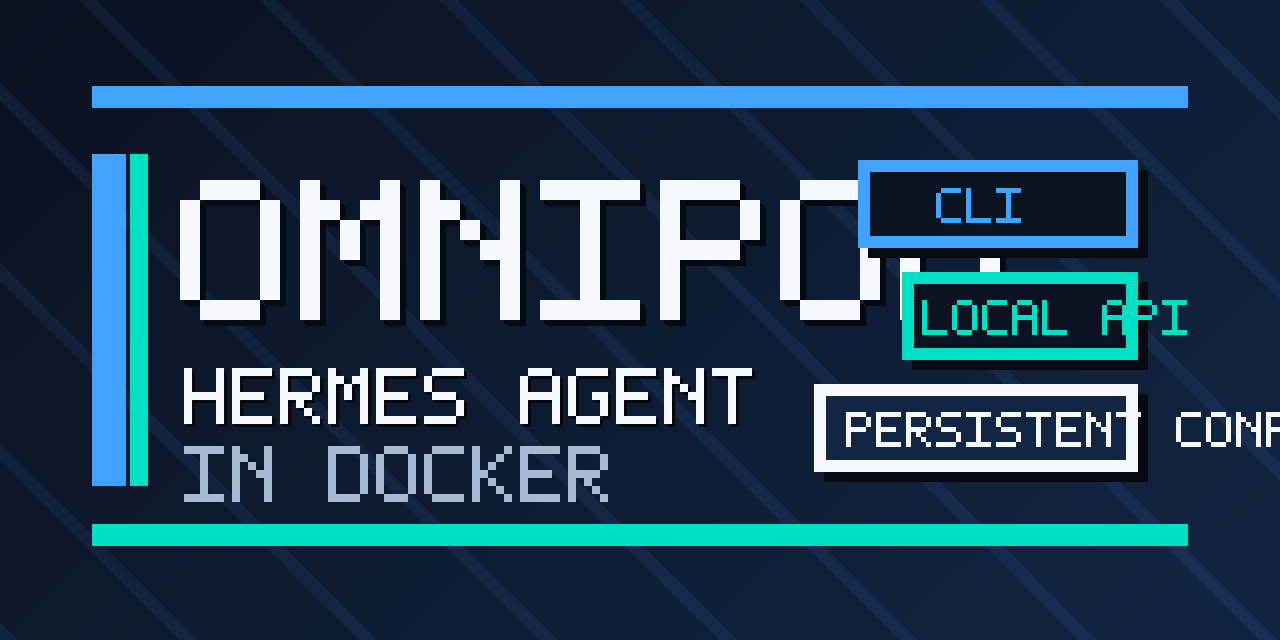
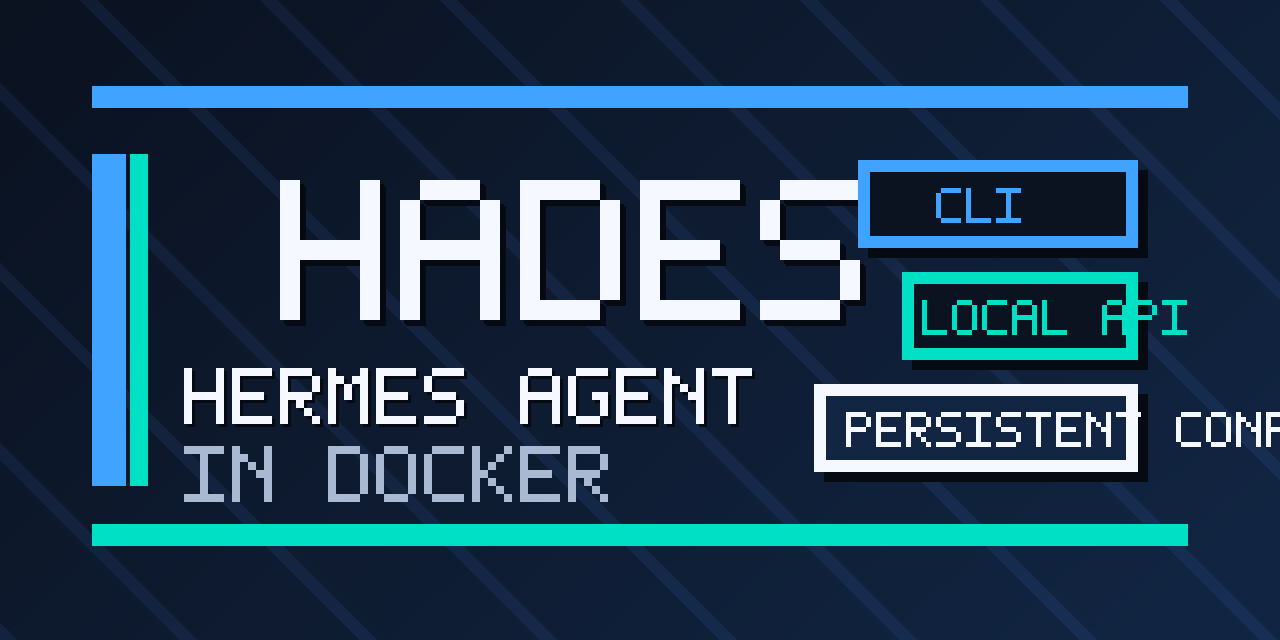
release: v1.2.0 — HADES branding complete, social preview updated, docs polished

Changed region(s): [[0.125, 0.2812, 0.7188, 0.5312], [0.75, 0.4062, 0.7812, 0.4375]]

diff --git a/assets/generate_social_preview.py b/assets/generate_social_preview.py
@@ -7,13 +7,13 @@ out.mkdir(parents=True, exist_ok=True)
 
 W, H = 1280, 640
 Color = Tuple[int, int, int]
-bg1: Color = (11, 18, 32)
-bg2: Color = (18, 38, 68)
-accent: Color = (64, 163, 255)
-accent2: Color = (0, 224, 196)
-white: Color = (245, 248, 255)
-muted: Color = (170, 185, 210)
-shadow: Color = (6, 10, 18)
+bg1:    Color = (11,  18,  32)
+bg2:    Color = (18,  38,  68)
+accent: Color = (64,  163, 255)
+accent2:Color = (0,   224, 196)
+white:  Color = (245, 248, 255)
+muted:  Color = (170, 185, 210)
+shadow: Color = (6,   10,  18)
 
 img: List[List[Color]] = [[bg1 for _ in range(W)] for _ in range(H)]
 
@@ -41,45 +41,40 @@ for band in range(-H, W, 180):
                 img[y][x] = (min(255, r + 6), min(255, g + 10), min(255, b + 18))
 
 FONT = {
-    'A': ['01110', '10001', '10001', '11111', '10001', '10001', '10001'],
-    'C': ['01111', '10000', '10000', '10000', '10000', '10000', '01111'],
-    'D': ['11110', '10001', '10001', '10001', '10001', '10001', '11110'],
-    'E': ['11111', '10000', '10000', '11110', '10000', '10000', '11111'],
-    'F': ['11111', '10000', '10000', '11110', '10000', '10000', '10000'],
-    'G': ['01111', '10000', '10000', '10011', '10001', '10001', '01110'],
-    'H': ['10001', '10001', '10001', '11111', '10001', '10001', '10001'],
-    'I': ['11111', '00100', '00100', '00100', '00100', '00100', '11111'],
-    'K': ['10001', '10010', '10100', '11000', '10100', '10010', '10001'],
-    'L': ['10000', '10000', '10000', '10000', '10000', '10000', '11111'],
-    'M': ['10001', '11011', '10101', '10101', '10001', '10001', '10001'],
-    'N': ['10001', '11001', '10101', '10011', '10001', '10001', '10001'],
-    'O': ['01110', '10001', '10001', '10001', '10001', '10001', '01110'],
-    'P': ['11110', '10001', '10001', '11110', '10000', '10000', '10000'],
-    'R': ['11110', '10001', '10001', '11110', '10100', '10010', '10001'],
-    'S': ['01111', '10000', '10000', '01110', '00001', '00001', '11110'],
-    'T': ['11111', '00100', '00100', '00100', '00100', '00100', '00100'],
-    'V': ['10001', '10001', '10001', '10001', '10001', '01010', '00100'],
-    'Y': ['10001', '10001', '01010', '00100', '00100', '00100', '00100'],
-    ':': ['00000', '00100', '00100', '00000', '00100', '00100', '00000'],
-    ' ': ['00000', '00000', '00000', '00000', '00000', '00000', '00000'],
+    'A': ['01110','10001','10001','11111','10001','10001','10001'],
+    'C': ['01111','10000','10000','10000','10000','10000','01111'],
+    'D': ['11110','10001','10001','10001','10001','10001','11110'],
+    'E': ['11111','10000','10000','11110','10000','10000','11111'],
+    'F': ['11111','10000','10000','11110','10000','10000','10000'],
+    'G': ['01111','10000','10000','10011','10001','10001','01110'],
+    'H': ['10001','10001','10001','11111','10001','10001','10001'],
+    'I': ['11111','00100','00100','00100','00100','00100','11111'],
+    'K': ['10001','10010','10100','11000','10100','10010','10001'],
+    'L': ['10000','10000','10000','10000','10000','10000','11111'],
+    'M': ['10001','11011','10101','10101','10001','10001','10001'],
+    'N': ['10001','11001','10101','10011','10001','10001','10001'],
+    'O': ['01110','10001','10001','10001','10001','10001','01110'],
+    'P': ['11110','10001','10001','11110','10000','10000','10000'],
+    'R': ['11110','10001','10001','11110','10100','10010','10001'],
+    'S': ['01111','10000','10000','01110','00001','00001','11110'],
+    'T': ['11111','00100','00100','00100','00100','00100','00100'],
+    'V': ['10001','10001','10001','10001','10001','01010','00100'],
+    'Y': ['10001','10001','01010','00100','00100','00100','00100'],
+    ':': ['00000','00100','00100','00000','00100','00100','00000'],
+    ' ': ['00000','00000','00000','00000','00000','00000','00000'],
 }
 
 def draw_rect(x, y, w, h, color):
-    x = max(0, x)
-    y = max(0, y)
-    w = min(w, W - x)
-    h = min(h, H - y)
-    if w <= 0 or h <= 0:
-        return
+    x = max(0, x); y = max(0, y)
+    w = min(w, W - x); h = min(h, H - y)
+    if w <= 0 or h <= 0: return
     for yy in range(y, y + h):
         row = img[yy]
         for xx in range(x, x + w):
             row[xx] = color
 
-for y in range(86, 108):
-    draw_rect(92, y, 1096, 1, accent)
-for y in range(524, 546):
-    draw_rect(92, y, 1096, 1, accent2)
+for y in range(86, 108):  draw_rect(92, y, 1096, 1, accent)
+for y in range(524, 546): draw_rect(92, y, 1096, 1, accent2)
 draw_rect(92, 154, 34, 332, accent)
 draw_rect(130, 154, 18, 332, accent2)
 
@@ -98,10 +93,10 @@ def draw_text(text, x, y, scale, color, spacing=1):
     return cx
 
 scale_title = 20
-x_title, y_title = 180, 180
+x_title, y_title = 280, 180
 for ox, oy in [(6, 6), (4, 4)]:
-    draw_text('OMNIPOD', x_title + ox, y_title + oy, scale_title, shadow, spacing=1)
-draw_text('OMNIPOD', x_title, y_title, scale_title, white, spacing=1)
+    draw_text('HADES', x_title + ox, y_title + oy, scale_title, shadow, spacing=1)
+draw_text('HADES', x_title, y_title, scale_title, white, spacing=1)
 
 scale_sub = 8
 for ox, oy in [(3, 3)]:
@@ -120,9 +115,9 @@ for x, y, w, h, c in boxes:
     draw_rect(x + 12, y + 12, w - 24, h - 24, bg1 if c != white else bg2)
 
 small = 5
-draw_text('CLI', 936, 188, small, accent, spacing=1)
-draw_text('LOCAL API', 922, 300, small, accent2, spacing=1)
-draw_text('PERSISTENT CONFIG', 846, 412, small, white, spacing=1)
+draw_text('CLI',              936, 188, small, accent,  spacing=1)
+draw_text('LOCAL API',        922, 300, small, accent2, spacing=1)
+draw_text('PERSISTENT CONFIG',846, 412, small, white,   spacing=1)
 
 raw = bytearray()
 for row in img:
@@ -139,7 +134,7 @@ png += chunk(b'IDAT', zlib.compress(bytes(raw), 9))
 png += chunk(b'IEND', b'')
 (out / 'social-preview.png').write_bytes(png)
 
-svg = '''<svg xmlns="http://www.w3.org/2000/svg" width="1280" height="640" viewBox="0 0 1280 640" role="img" aria-label="Omnipod social preview">
+svg = '''<svg xmlns="http://www.w3.org/2000/svg" width="1280" height="640" viewBox="0 0 1280 640" role="img" aria-label="HADES — Hermes Agent Docker Environment Script">
   <defs>
     <linearGradient id="bg" x1="0" y1="0" x2="1" y2="1">
       <stop offset="0%" stop-color="#0b1220"/>
@@ -151,7 +146,7 @@ svg = '''<svg xmlns="http://www.w3.org/2000/svg" width="1280" height="640" viewB
   <rect x="92" y="524" width="1096" height="22" rx="11" fill="#00e0c4"/>
   <rect x="92" y="154" width="34" height="332" rx="10" fill="#40a3ff"/>
   <rect x="130" y="154" width="18" height="332" rx="9" fill="#00e0c4"/>
-  <text x="180" y="290" fill="#f5f8ff" font-size="128" font-weight="800" font-family="Inter, Segoe UI, Arial, sans-serif" letter-spacing="4">OMNIPOD</text>
+  <text x="280" y="290" fill="#f5f8ff" font-size="128" font-weight="800" font-family="Inter, Segoe UI, Arial, sans-serif" letter-spacing="8">HADES</text>
   <text x="184" y="390" fill="#f5f8ff" font-size="44" font-weight="700" font-family="Inter, Segoe UI, Arial, sans-serif">Hermes Agent</text>
   <text x="184" y="450" fill="#aab9d2" font-size="40" font-weight="500" font-family="Inter, Segoe UI, Arial, sans-serif">in Docker</text>
   <g>
@@ -172,5 +167,15 @@ svg = '''<svg xmlns="http://www.w3.org/2000/svg" width="1280" height="640" viewB
 </svg>
 '''
 (out / 'social-preview.svg').write_text(svg)
-(out / 'README.md').write_text('# Social preview assets\n\nPrimary file for GitHub social preview:\n\n- `social-preview.png`\n\nSuggested upload path in GitHub UI:\n\n1. Open repository settings\n2. Go to **General**\n3. Find **Social preview**\n4. Upload `assets/social-preview.png`\n\nThe matching SVG source is included as `social-preview.svg` for future edits.\n')
-print('generated assets:', sorted(p.name for p in out.iterdir()))
+(out / 'README.md').write_text(
+'# Social preview assets\n\n'
+'Primary file for GitHub social preview:\n\n'
+'- `social-preview.png`\n\n'
+'Suggested upload path in GitHub UI:\n\n'
+'1. Open repository settings\n'
+'2. Go to **General**\n'
+'3. Find **Social preview**\n'
+'4. Upload `assets/social-preview.png`\n\n'
+'The matching SVG source is `social-preview.svg` for future edits.\n'
+)
+print('generated:', sorted(p.name for p in out.iterdir()))

diff --git a/README.md b/README.md
@@ -105,17 +105,17 @@ bash install.sh --provider openrouter --model deepseek/deepseek-v4-flash:free --
 ## Architecture
 
 ```text
- HOST                                   CONTAINER
-┌───────────────────────┐     ┌──────────────────────────┐
-│ ~/.hades/           │     │ hades                   │
-│   .env                │     │   hermes gateway run      │
-│   docker-compose.yml  │     │   API: 127.0.0.1:8642     │
-│   workspace/  ◄───────────────► /workspace              │
-│                       │     │                            │
-└───────────────────────┘     │  /root/.hermes ◄─────────┼── volume
-                               │  (sessions, memory,      │
-                               │   skills, config)         │
-                               └──────────────────────────┘
+ HOST                                    CONTAINER
+┌────────────────────────┐     ┌─────────────────────────────┐
+│ ~/.hades/              │     │ hades                       │
+│   .env                 │     │   hermes gateway run        │
+│   docker-compose.yml   │     │   API: 127.0.0.1:8642       │
+│   workspace/  ◄────────────────► /workspace               │
+│                        │     │                              │
+└────────────────────────┘     │  /root/.hermes ◄────────────┼── volume
+                                │  (sessions, memory,         │
+                                │   skills, config)           │
+                                └─────────────────────────────┘
 ```
 
 Workspace is bind-mounted. Hermes state lives in a named Docker volume — it survives rebuilds and restarts.

diff --git a/CHANGELOG.md b/CHANGELOG.md
@@ -2,7 +2,7 @@
 
 All notable changes to this project will be documented in this file.
 
-## [1.2.0] - Unreleased
+## [1.2.0] - 2026-05-28
 
 - Renamed project from Omnipod to **HADES** (Hermes Agent Docker Environment Script). Install directory is now `~/.hades/`, control command is now `hades`.
 - Modernized release pipeline to use native GitHub CLI (`gh release`) instead of deprecated Node actions.

diff --git a/assets/README.md b/assets/README.md
@@ -11,4 +11,4 @@ Suggested upload path in GitHub UI:
 3. Find **Social preview**
 4. Upload `assets/social-preview.png`
 
-The matching SVG source is included as `social-preview.svg` for future edits.
+The matching SVG source is `social-preview.svg` for future edits.